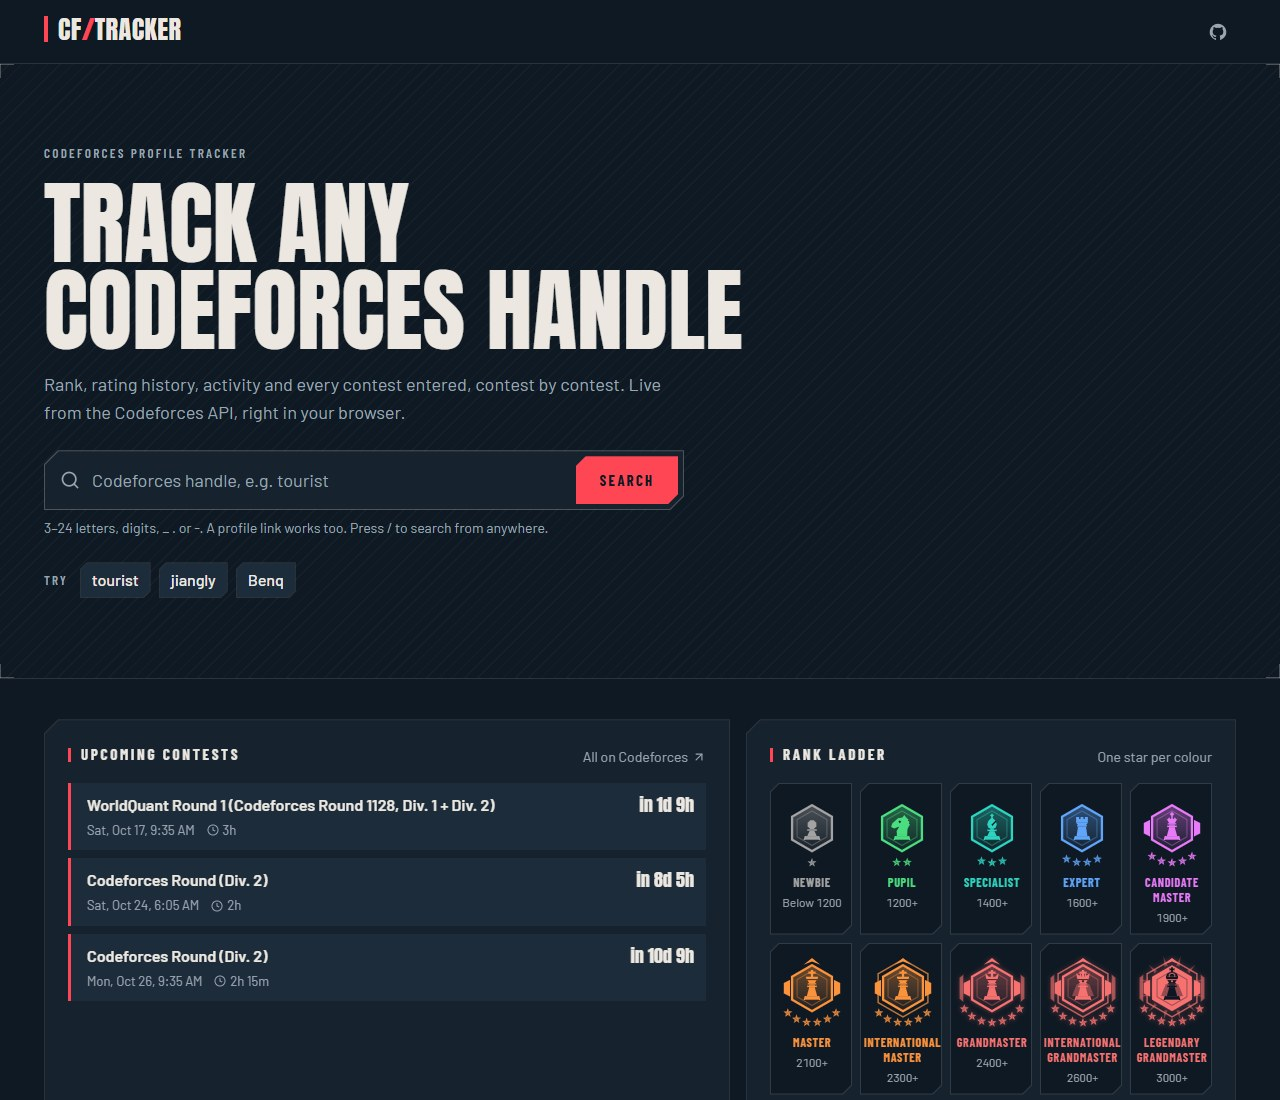
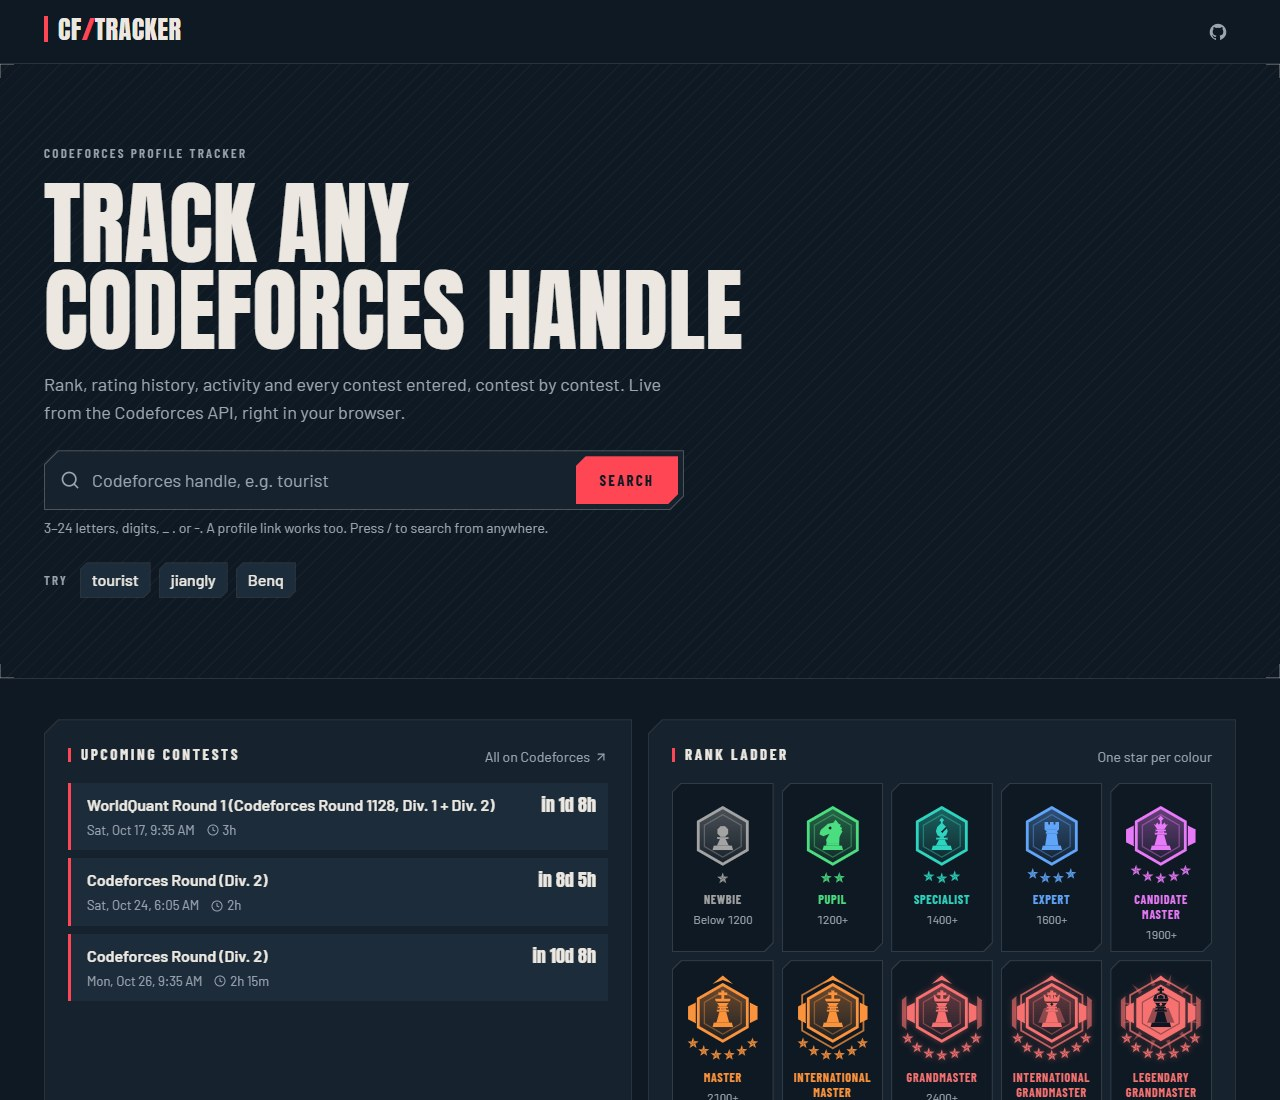
feat: fade the home page in and lift history rows on hover
The home page comes in once, top to bottom, 80 ms apart, and the rank
ladder's ranks follow from Newbie up. The two home panels now split the
width evenly, so the ladder's emblems fill their cells at up to 100 px.
Match history rows grow slightly under the pointer or keyboard focus,
in place. Reduced motion turns all of it off, animation delays included.

Changed region(s): [[0.375, 0.68, 0.9375, 1.0], [0.4062, 0.7727, 0.4688, 0.8036], [0.4688, 0.4327, 0.5, 0.4636]]

diff --git a/src/pages/home.tsx b/src/pages/home.tsx
@@ -3,37 +3,46 @@ import { UpcomingContests } from '../components/home/upcoming-contests'
 import { ExampleHandles, RecentSearches } from '../components/search/handle-chips'
 import { SearchBox } from '../components/search/search-box'
 
+/** The home page fades in piece by piece, top to bottom; reduced motion shows it all at once. */
+const FADE = 'animate-fade-up'
+
 export function Home() {
   return (
     <>
       <section aria-labelledby="home-title" className="ticks border-b border-line">
         <div className="mx-auto grid max-w-[1240px] grid-cols-[minmax(0,1fr)] gap-6 px-4 py-14 sm:px-6 sm:py-20">
           <div className="grid gap-4">
-            <p className="font-label text-[13px] font-semibold tracking-[0.18em] text-ink-muted uppercase">
+            <p className={`${FADE} font-label text-[13px] font-semibold tracking-[0.18em] text-ink-muted uppercase`}>
               Codeforces profile tracker
             </p>
             <h1
               id="home-title"
-              className="max-w-[16ch] font-display text-[clamp(44px,8vw,92px)] leading-[0.95] text-balance uppercase"
+              className={`${FADE} max-w-[16ch] font-display text-[clamp(44px,8vw,92px)] leading-[0.95] text-balance uppercase [animation-delay:80ms]`}
             >
               Track any Codeforces handle
             </h1>
-            <p className="max-w-[62ch] text-lg text-ink-muted">
+            <p className={`${FADE} max-w-[62ch] text-lg text-ink-muted [animation-delay:160ms]`}>
               Rank, rating history, activity and every contest entered, contest by contest. Live from the Codeforces
               API, right in your browser.
             </p>
           </div>
-          <SearchBox variant="hero" />
-          <div className="grid gap-3">
+          <div className={`${FADE} [animation-delay:240ms]`}>
+            <SearchBox variant="hero" />
+          </div>
+          <div className={`${FADE} grid gap-3 [animation-delay:320ms]`}>
             <RecentSearches />
             <ExampleHandles />
           </div>
         </div>
       </section>
 
-      <div className="mx-auto grid max-w-[1240px] grid-cols-[minmax(0,1fr)] gap-4 px-4 py-10 sm:px-6 lg:grid-cols-[minmax(0,7fr)_minmax(0,5fr)]">
-        <UpcomingContests />
-        <RankLadder />
+      <div className="mx-auto grid max-w-[1240px] grid-cols-[minmax(0,1fr)] gap-4 px-4 py-10 sm:px-6 lg:grid-cols-2">
+        <div className={`${FADE} grid min-w-0 [animation-delay:400ms]`}>
+          <UpcomingContests />
+        </div>
+        <div className={`${FADE} grid min-w-0 [animation-delay:480ms]`}>
+          <RankLadder />
+        </div>
       </div>
     </>
   )

diff --git a/src/index.css b/src/index.css
@@ -57,6 +57,15 @@
       transform: translateY(8px);
     }
   }
+
+  /* The home page coming in, piece by piece: a slower fade and a 14 px rise, staggered with animation-delay. */
+  --animate-fade-up: fade-up 520ms var(--ease-snap) both;
+  @keyframes fade-up {
+    from {
+      opacity: 0;
+      transform: translateY(14px);
+    }
+  }
 }
 
 @layer base {
@@ -205,6 +214,16 @@
     clip-path: polygon(0 0, 100% 0, 100% calc(100% - 10px), calc(100% - 10px) 100%, 0 100%);
     content-visibility: auto;
     contain-intrinsic-size: auto 84px;
+    transition:
+      transform 160ms var(--ease-snap),
+      filter 160ms var(--ease-snap);
+  }
+  /* A small lift under the pointer, so the row being read stands out without moving its neighbours. */
+  .contest-row:hover,
+  .contest-row:focus-within {
+    z-index: 1;
+    transform: scale(1.012);
+    filter: brightness(1.08);
   }
   .contest-row::before {
     content: '';
@@ -295,7 +314,12 @@
   ::after {
     transition-duration: 0.01ms !important;
     animation-duration: 0.01ms !important;
+    animation-delay: 0ms !important;
     animation-iteration-count: 1 !important;
     scroll-behavior: auto !important;
+  }
+  .contest-row:hover,
+  .contest-row:focus-within {
+    transform: none;
   }
 }

diff --git a/src/components/home/rank-ladder.tsx b/src/components/home/rank-ladder.tsx
@@ -7,12 +7,14 @@ export function RankLadder() {
   return (
     <Panel title="Rank ladder" aside="One star per colour">
       <ol className="grid grid-cols-2 gap-2 min-[420px]:grid-cols-3 sm:grid-cols-5">
-        {RANKS.map((rank) => (
+        {RANKS.map((rank, i) => (
           <li
             key={rank.name}
-            className="cut grid content-start justify-items-center gap-1 px-1 pt-3 pb-2.5 text-center [--cut:9px] [--cut-fill:var(--color-bg)]"
+            className="cut grid animate-fade-up content-start justify-items-center gap-1 px-1 pt-3 pb-2.5 text-center [--cut:9px] [--cut-fill:var(--color-bg)]"
+            // The ranks come in one after another, from Newbie up, once the panel is in.
+            style={{ animationDelay: `${560 + i * 45}ms` }}
           >
-            <RankEmblem rank={rank} size={76} />
+            <RankEmblem rank={rank} size={100} className="h-auto w-full max-w-[100px]" />
             <span
               className="font-label text-xs leading-tight font-bold tracking-[0.06em] uppercase"
               style={{ color: rank.color }}

diff --git a/docs/DESIGN.md b/docs/DESIGN.md
@@ -114,8 +114,13 @@ All motion is CSS; there is no animation library.
 
 - Transitions take 120–180 ms with easing `cubic-bezier(0.2, 0, 0, 1)` (`--ease-snap`).
 - Panels enter with a 180 ms fade and an 8 px rise (`animate-enter`).
-- `prefers-reduced-motion` turns every transition and animation off, through one rule in
-  `index.css`.
+- The home page comes in once, top to bottom: eyebrow, title, intro, search, chips and the two
+  panels, 80 ms apart, each with a 520 ms fade and a 14 px rise (`animate-fade-up`). The rank
+  ladder's ranks follow, 45 ms apart, from Newbie up.
+- Match history rows lift under the pointer or keyboard focus: `scale(1.012)` and a touch
+  brighter, over 160 ms. The row grows in place and its neighbours do not move.
+- `prefers-reduced-motion` turns every transition and animation off, delays included, through one
+  rule in `index.css`. The row lift is off too.
 - No layout animations on long lists, such as the match history.
 - The loading indicator is a diagonal scanning bar (`animate-scan`), which stays still with reduced
   motion.
